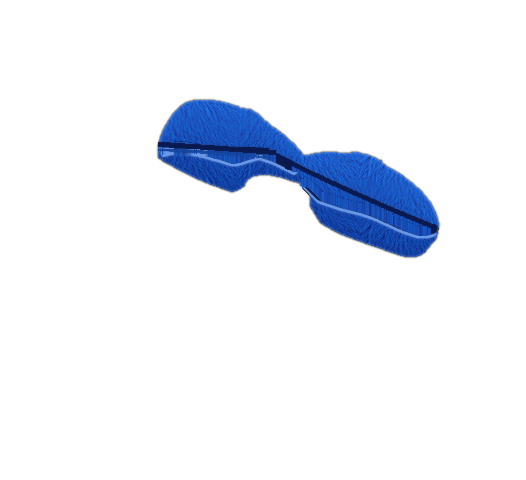
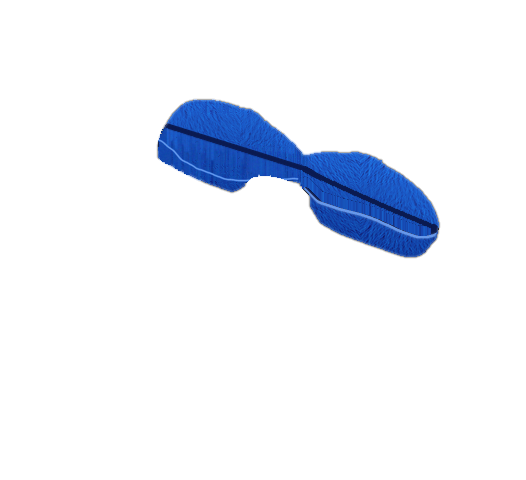
fix maskot

Changed region(s): [[0.3042, 0.25, 0.6084, 0.375]]

diff --git a/frontend/src/widgets/mascot/ui/Mascot3D.tsx b/frontend/src/widgets/mascot/ui/Mascot3D.tsx
@@ -101,16 +101,22 @@ const Letter = ({ alert }: { alert: boolean }) => (
   </Box>
 );
 
-export const Mascot3D = ({ size, mood = "idle", badge }: {
+export const Mascot3D = ({ size, mood = "idle", badge, mail }: {
   size: number; mood?: MascotMood; badge?: ReactNode;
+  /** Письмо в лапе, пока есть уведомление (бейдж) — даже если маскот уже idle/drowsy. */
+  mail?: boolean;
 }) => {
   const w = size * 1.2;
   const h = w * ASPECT;
 
   const asleep = mood === "sleeping";
   const eyes = EYES[mood] ?? "open";
-  const letter = LETTER.includes(mood);
+  // Письмо: по mood события ИЛИ пока висит бейдж уведомлений (mail).
+  const letter = !asleep && (Boolean(mail) || LETTER.includes(mood));
   const blinkAnim = letter ? `${blinkTwice} 2.6s ease-in-out infinite` : `${blink} 6s ease-in-out infinite`;
+  const pawMotion = letter
+    ? (LETTER.includes(mood) ? PAW_MOTION[mood] : PAW_MOTION.has_answer)
+    : PAW_MOTION[mood];
   const stripe = Math.max(3, Math.round(size * 0.07));
   // На мелком размере (мобилка) filter даёт «мыло» — на десктопе оставляем тень.
   const compact = size < 90;
@@ -168,9 +174,9 @@ export const Mascot3D = ({ size, mood = "idle", badge }: {
                   ? "transform .9s ease-in-out, opacity .35s ease .85s"
                   : "transform .55s ease-out, opacity .2s ease",
               }}>
-                <Box sx={{ position: "relative", width: "100%", height: "100%", transformOrigin: PAW.pivot, animation: PAW_MOTION[mood] }}>
+                <Box sx={{ position: "relative", width: "100%", height: "100%", transformOrigin: PAW.pivot, animation: pawMotion }}>
                   <Box component="img" src={pawImg} alt="" draggable={false} sx={{ width: "100%", height: "100%", display: "block", userSelect: "none" }} />
-                  {letter && <Letter alert={mood === "reminder"} />}
+                  {letter && <Letter alert={mood === "reminder" || Boolean(mail && mood !== "has_answer" && mood !== "needs_confirm")} />}
                 </Box>
               </Box>
             </Box>

diff --git a/frontend/src/widgets/mascot/mascot.test.tsx b/frontend/src/widgets/mascot/mascot.test.tsx
@@ -94,6 +94,10 @@ describe("Mascot3D", () => {
     const idle = draw("idle");
     expect(idle.container.querySelector("[data-letter]")).toBeNull();
     idle.unmount();
+    // Бейдж уведомлений → письмо даже в idle (машет, пока есть urgent).
+    const withMail = render(<ThemeProvider theme={makeTheme("light")}><Mascot3D size={96} mood="idle" mail /></ThemeProvider>);
+    expect(withMail.container.querySelector('[data-letter="alert"]')).not.toBeNull();
+    withMail.unmount();
     const sleeping = draw("sleeping");
     expect(sleeping.container.querySelector("[data-letter]")).toBeNull();
     // Во сне ложится: появляются подушка и одеяло; проснувшись — убираются

diff --git a/frontend/src/app/App.tsx b/frontend/src/app/App.tsx
@@ -528,6 +528,7 @@ function App() {
           }} /> : <Mascot3D
             size={mascotSize}
             mood={mood}
+            mail={urgent > 0}
             badge={urgent > 0 ? (
               <Box component="span" sx={{
                 position: "absolute", top: { xs: 4, md: 8 }, right: { xs: 4, md: 8 },
